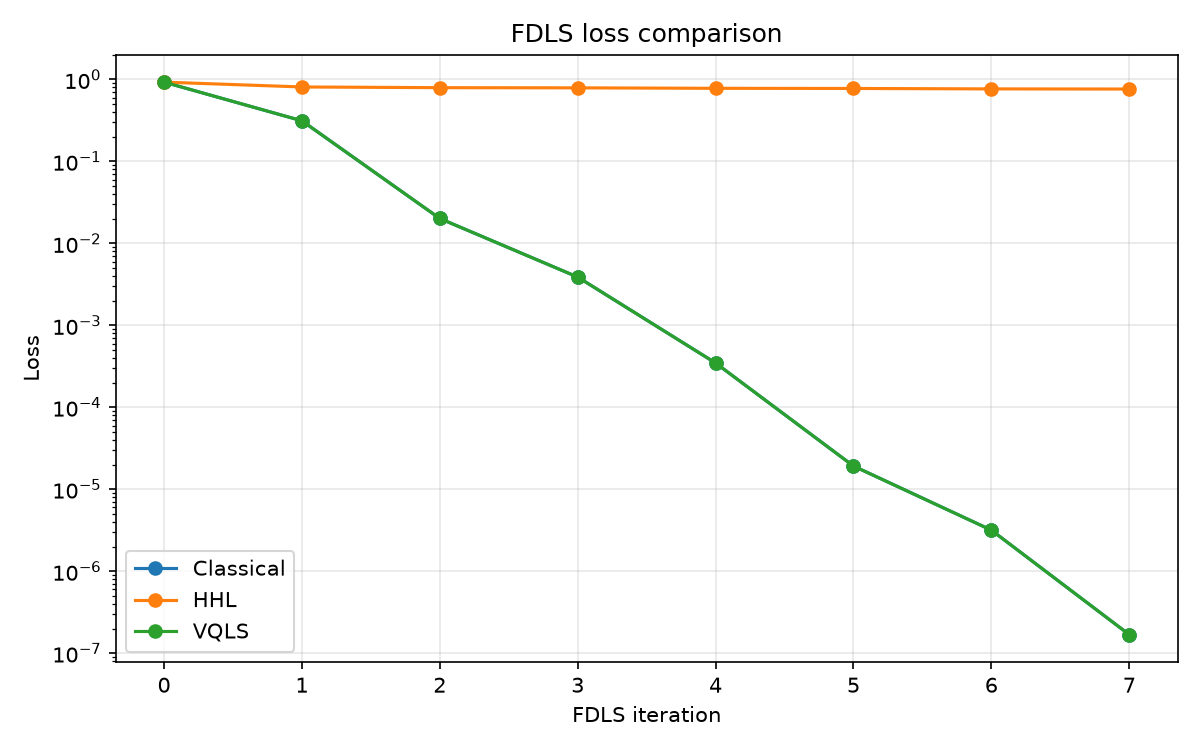
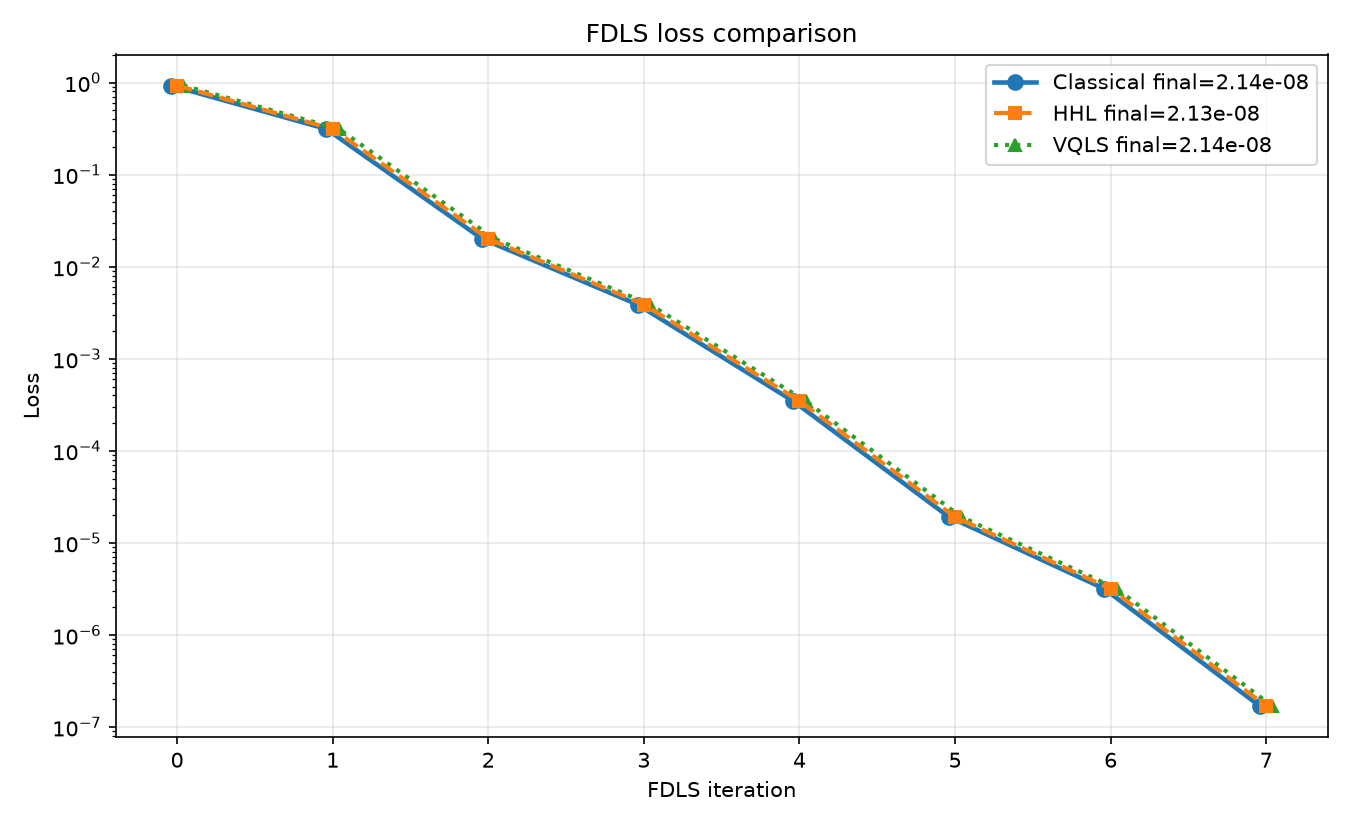
Update FDLS

diff --git a/src/quantum_solvers.py b/src/quantum_solvers.py
@@ -13,8 +13,10 @@ from qiskit.quantum_info import Statevector, SparsePauliOp, Operator
 
 from config import (
     HHL_PHASE_QUBITS,
-    HHL_T,
+    HHL_PHASE_TARGET,
     HHL_C,
+    HHL_DEBUG_COMPARE_CLASSICAL,
+    PRINT_SOLVER_DETAIL,
     VQLS_STEPS,
     VQLS_RHOBEG,
     VQLS_Q_DELTA,
@@ -103,6 +105,26 @@ def recover_scaled_solution(A, b, x_prime):
 
     return x_recovered, k
 
+def gershgorin_lambda_bound(A):
+    """
+    Cận trên trị riêng theo Gershgorin.
+
+    Không tính eigenvalue thật.
+    Phù hợp hơn với tinh thần HHL.
+    """
+
+    A = np.asarray(A, dtype=complex)
+
+    diag_abs = np.abs(np.diag(A))
+    row_sum_abs = np.sum(np.abs(A), axis=1)
+
+    radii = row_sum_abs - diag_abs
+    bound = np.max(diag_abs + radii)
+
+    if bound <= 1e-12:
+        raise ValueError("Gershgorin bound quá nhỏ, không thể scale HHL.")
+
+    return float(bound)
 
 def classical_solve(A, b, label="Classical"):
     """
@@ -226,7 +248,22 @@ def hhl_solve(A, b, label="HHL"):
 
     b_norm = b_pad / np.linalg.norm(b_pad)
 
-    U_matrix = expm(1j * A_pad * HHL_T)
+    lambda_bound = gershgorin_lambda_bound(A_pad)
+
+    t_eff = HHL_PHASE_TARGET * 2 * np.pi / lambda_bound
+
+    U_matrix = expm(1j * A_pad * t_eff)
+
+    if PRINT_SOLVER_DETAIL:
+        print(f"\n[{label}] HHL scaling diagnostic")
+        print("Gershgorin lambda bound:")
+        print(lambda_bound)
+        print("Effective HHL t:")
+        print(t_eff)
+        print("Max phase upper bound:")
+        print(lambda_bound * t_eff / (2 * np.pi))
+        print("QPE resolution:")
+        print(1 / (2 ** phase_qubits))
 
     assert np.allclose(
         U_matrix.conj().T @ U_matrix,
@@ -255,7 +292,7 @@ def hhl_solve(A, b, label="HHL"):
         qc_hhl,
         phase_indices,
         ancilla_index,
-        t=HHL_T,
+        t=t_eff,
         C=HHL_C
     )
 
@@ -311,7 +348,16 @@ def hhl_solve(A, b, label="HHL"):
     print(np.real_if_close(x))
 
     print(f"[{label}] residual ||A x - b|| = {np.linalg.norm(A @ x - b):.6e}")
+    x_classical = np.linalg.solve(A, b)
 
+    print(f"[{label}] Classical reference solution:")
+    print(np.real_if_close(x_classical))
+
+    print(f"[{label}] HHL error ||x_hhl - x_classical||:")
+    print(np.linalg.norm(x - x_classical))
+
+    print(f"[{label}] HHL relative error:")
+    print(np.linalg.norm(x - x_classical) / np.linalg.norm(x_classical))
     return clean_real_vector(x)
 
 

diff --git a/src/plotting.py b/src/plotting.py
@@ -10,14 +10,65 @@ from config import OUTPUT_DIR
 
 
 def plot_loss(results):
-    plt.figure(figsize=(8, 5))
+    import os
+    import numpy as np
+    import matplotlib.pyplot as plt
+
+    from config import OUTPUT_DIR
+
+    plt.figure(figsize=(9, 5.5))
+
+    styles = {
+        "Classical": {
+            "marker": "o",
+            "linestyle": "-",
+            "linewidth": 2.2,
+            "markersize": 7,
+            "zorder": 3,
+        },
+        "HHL": {
+            "marker": "s",
+            "linestyle": "--",
+            "linewidth": 2.0,
+            "markersize": 6,
+            "zorder": 5,
+        },
+        "VQLS": {
+            "marker": "^",
+            "linestyle": ":",
+            "linewidth": 2.0,
+            "markersize": 6,
+            "zorder": 4,
+        },
+    }
+
+    # Dịch rất nhẹ vị trí marker theo trục x để các điểm không che nhau.
+    x_offsets = {
+        "Classical": -0.04,
+        "HHL": 0.00,
+        "VQLS": 0.04,
+    }
+
+    print("\n" + "=" * 80)
+    print("LOSS HISTORY USED FOR PLOTTING")
+    print("=" * 80)
 
     for r in results:
+        name = r["name"]
+        y = np.array(r["loss_history"], dtype=float)
+        x = np.arange(len(y), dtype=float)
+
+        print(f"\n{name} loss_history:")
+        print(y)
+
+        style = styles.get(name, {})
+        offset = x_offsets.get(name, 0.0)
+
         plt.plot(
-            range(len(r["loss_history"])),
-            r["loss_history"],
-            marker="o",
-            label=r["name"]
+            x + offset,
+            y,
+            label=f"{name} final={r['final_loss']:.2e}",
+            **style,
         )
 
     plt.xlabel("FDLS iteration")

diff --git a/src/config.py b/src/config.py
@@ -17,28 +17,23 @@ FDLS_TOL = 1e-7
 
 
 # ============================================================
-# HHL - theo code HHL của bạn
+# HHL CONFIG
 # ============================================================
 
-# Số phase qubit cho QPE
 HHL_PHASE_QUBITS = 8
 
-# Trong code HHL của bạn có:
-# t = 0.2
-#
-# Nhưng với B' từ IEEE, trị riêng thường lớn hơn ví dụ toy của bạn.
-# Do đó để tránh phase bị wrap, dùng t nhỏ hơn.
-# Bản chất vẫn là đúng code HHL:
-# U = exp(i A t)
-HHL_T = 0.12
+# Không dùng trị riêng thật.
+# Dùng bound để chọn t_eff sao cho phase lớn nhất khoảng 0.40.
+HHL_PHASE_TARGET = 0.40
 
-# Trong code HHL của bạn:
-# control_rotation_gate(..., C=1.0)
 HHL_C = 1.0
+
+# Chỉ bật khi debug, không dùng trong bản chính.
+HHL_DEBUG_COMPARE_CLASSICAL = False
 
 
 # ============================================================
-# VQLS - theo code VQLS của bạn
+# VQLS CONFIG
 # ============================================================
 
 VQLS_STEPS = 100
@@ -55,7 +50,11 @@ VQLS_LAYERS = 2
 
 
 # ============================================================
-# PRINT
+# PRINT CONFIG
 # ============================================================
 
-PRINT_EVERY_ITER = True
+# False: không in chi tiết từng vòng FDLS
+PRINT_EVERY_ITER = False
+
+# False: không in chi tiết trong Classical/HHL/VQLS mỗi lần solve
+PRINT_SOLVER_DETAIL = False
